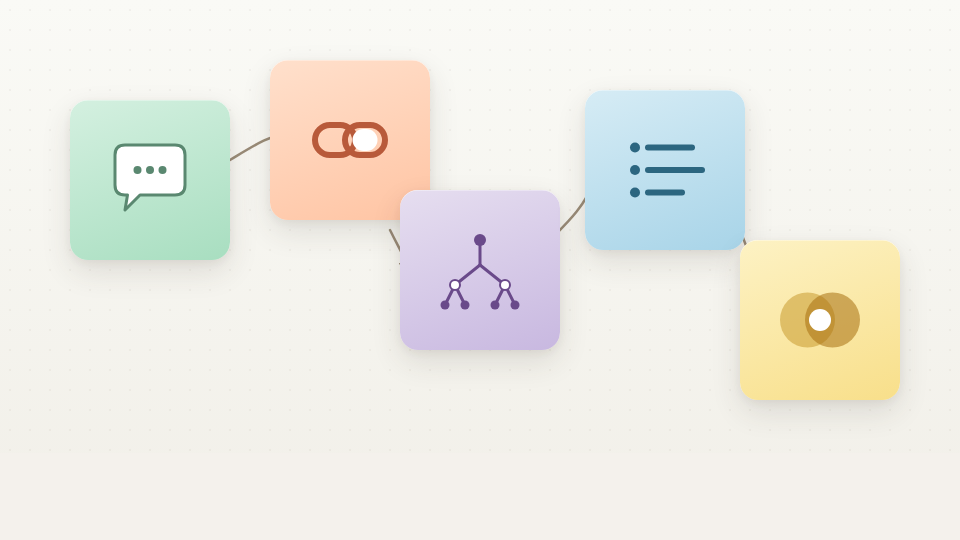
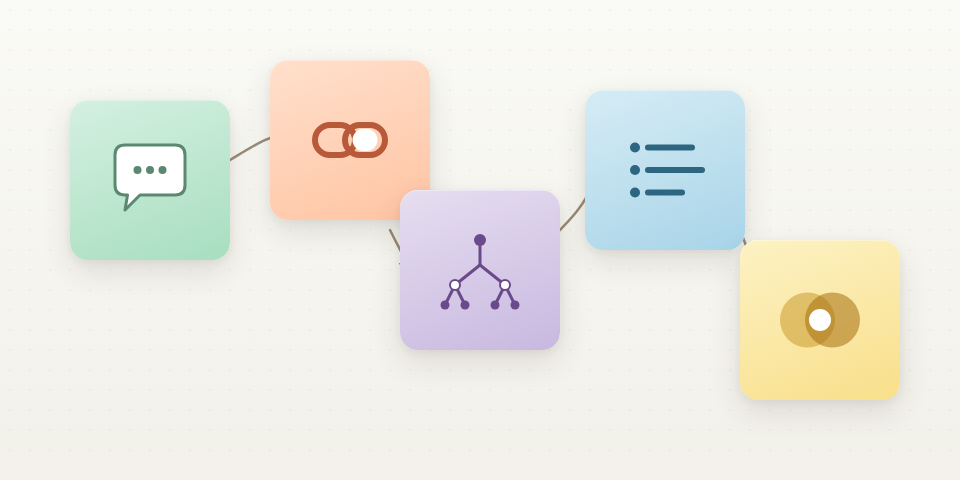
chore: /about 연혁 섹션 제거 + 서비스 아이콘 1~4 + 가이드 이미지 crop
- /about: 연혁(history) 섹션·navItem·데이터 모두 제거
- /about: 주요 서비스 카드 아이콘 DI/GD/GP/CM → 1/2/3/4 (font-size text-lg)
- 프롬프트 엔지니어링 이미지 3장: 하단 60px crop (capture html .page floor 영역 제거)

diff --git a/frontend/app/about/page.tsx b/frontend/app/about/page.tsx
@@ -6,41 +6,14 @@ const navItems = [
   { href: "#greeting", label: "인사말" },
   { href: "#mv", label: "미션 · 비전" },
   { href: "#services", label: "주요 서비스" },
-  { href: "#history", label: "연혁" },
   { href: "#contact", label: "오시는 길" },
 ];
 
 const services = [
-  { icon: "DI", label: "DAILY BRIEFING", name: "Daily Insight", ko: "데일리 인사이트", desc: "담당 직무와 현안에 맞춘 정책 브리프를 매일 아침 이메일로 전달합니다.", href: "/insights" },
-  { icon: "GD", label: "GUIDE", name: "AI Guide", ko: "AI 도입 가이드", desc: "RAG·Agent·LLM 같은 핵심 주제를 공공기관 도입 관점에서 단계별로 정리한 실무 가이드.", href: "/guide" },
-  { icon: "GP", label: "PROCUREMENT", name: "K-AI Proc", ko: "정부 AI 공고", desc: "나라장터 AI 발주를 자동 분류·집계하고 실시간 모니터링·맞춤 추천을 제공합니다.", href: "/proc" },
-  { icon: "CM", label: "COMMUNITY", name: "Community", ko: "커뮤니티", desc: "공공 AI 실무자가 사례·노하우·고민을 나누는 폐쇄형 커뮤니티. 인증 가입 후 참여.", href: "/join" },
-];
-
-const history = [
-  {
-    year: "2026",
-    events: [
-      { month: "04월", desc: "AX Portfolio 국내외 사례 300건 돌파" },
-      { month: "02월", desc: "조달 가이드(Gov AI Procurement) 정식 서비스 개시" },
-    ],
-  },
-  {
-    year: "2025",
-    events: [
-      { month: "11월", desc: "중앙부처·광역지자체 기관 파트너십 40개 확보" },
-      { month: "07월", desc: "AI Champion 1기 수료 · 수료생 58명 배출" },
-      { month: "03월", desc: "Daily Insight 정식 출시, 이용자 1만 명 돌파" },
-    ],
-  },
-  {
-    year: "2024",
-    events: [
-      { month: "09월", desc: "공공 도메인 특화 LLM 파이프라인 v1 완성" },
-      { month: "06월", desc: "Daily Insight 베타 오픈" },
-      { month: "03월", desc: "Kbrain AI Public Center 내 PUBLIC-AI 프로젝트 출범" },
-    ],
-  },
+  { icon: "1", label: "DAILY BRIEFING", name: "Daily Insight", ko: "데일리 인사이트", desc: "담당 직무와 현안에 맞춘 정책 브리프를 매일 아침 이메일로 전달합니다.", href: "/insights" },
+  { icon: "2", label: "GUIDE", name: "AI Guide", ko: "AI 도입 가이드", desc: "RAG·Agent·LLM 같은 핵심 주제를 공공기관 도입 관점에서 단계별로 정리한 실무 가이드.", href: "/guide" },
+  { icon: "3", label: "PROCUREMENT", name: "K-AI Proc", ko: "정부 AI 공고", desc: "나라장터 AI 발주를 자동 분류·집계하고 실시간 모니터링·맞춤 추천을 제공합니다.", href: "/proc" },
+  { icon: "4", label: "COMMUNITY", name: "Community", ko: "커뮤니티", desc: "공공 AI 실무자가 사례·노하우·고민을 나누는 폐쇄형 커뮤니티. 인증 가입 후 참여.", href: "/join" },
 ];
 
 function SectionHead({ num, title, meta }: { num: string; title: string; meta: string }) {
@@ -245,7 +218,7 @@ export default function AboutPage() {
                     href={s.href}
                     className={`grid grid-cols-[48px_180px_1fr_auto] gap-6 items-center px-6 py-5 hover:bg-muted/40 transition-colors group ${i > 0 ? "border-t" : ""}`}
                   >
-                    <div className="w-11 h-11 rounded-lg bg-primary/10 text-primary flex items-center justify-center font-mono text-xs font-bold">
+                    <div className="w-11 h-11 rounded-lg bg-primary/10 text-primary flex items-center justify-center font-mono text-lg font-bold">
                       {s.icon}
                     </div>
                     <div>
@@ -259,28 +232,9 @@ export default function AboutPage() {
               </div>
             </section>
 
-            {/* 06 HISTORY */}
-            <section className="scroll-mt-24" id="history">
-              <SectionHead num="06" title="연혁" meta="History" />
-              <div className="space-y-0">
-                {history.map((h, i) => (
-                  <div key={h.year} className={`grid grid-cols-[80px_1fr] gap-6 py-4 ${i < history.length - 1 ? "border-b" : ""}`}>
-                    <div className="font-mono text-sm font-semibold text-primary pt-0.5">{h.year}</div>
-                    <ul className="space-y-1.5">
-                      {h.events.map((e) => (
-                        <li key={e.month} className="text-sm text-muted-foreground">
-                          <span className="font-semibold text-foreground mr-2">{e.month}</span>{e.desc}
-                        </li>
-                      ))}
-                    </ul>
-                  </div>
-                ))}
-              </div>
-            </section>
-
-            {/* 07 LOCATION */}
+            {/* 06 LOCATION */}
             <section className="scroll-mt-24" id="contact">
-              <SectionHead num="07" title="오시는 길" meta="Location" />
+              <SectionHead num="06" title="오시는 길" meta="Location" />
               <div className="rounded-2xl border p-6">
                 {[
                   { k: "영업소재지", v: "서울 동작구 보라매로5길 51 롯데타워 301~309호" },